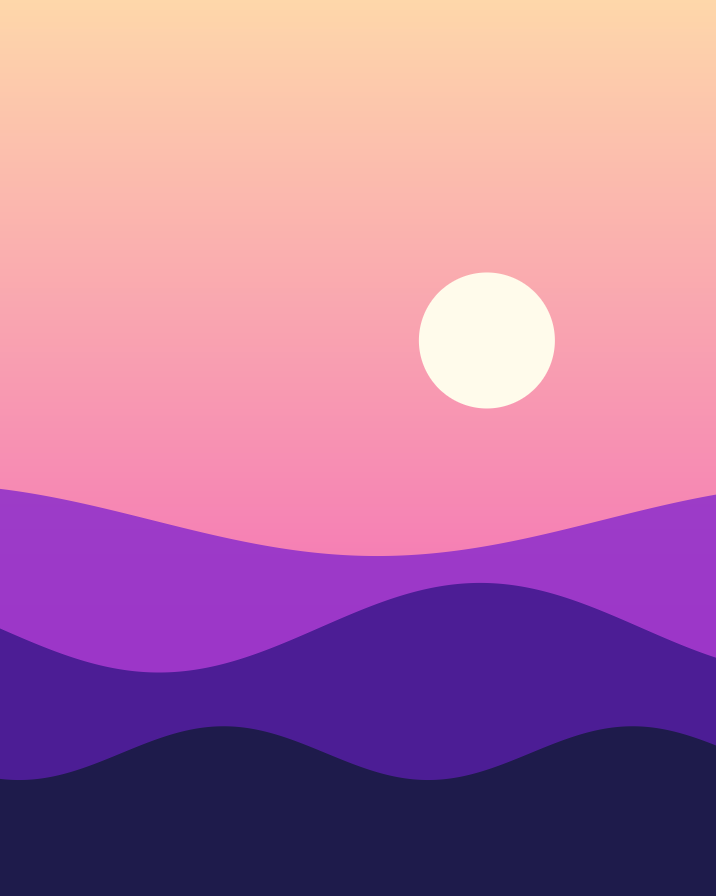
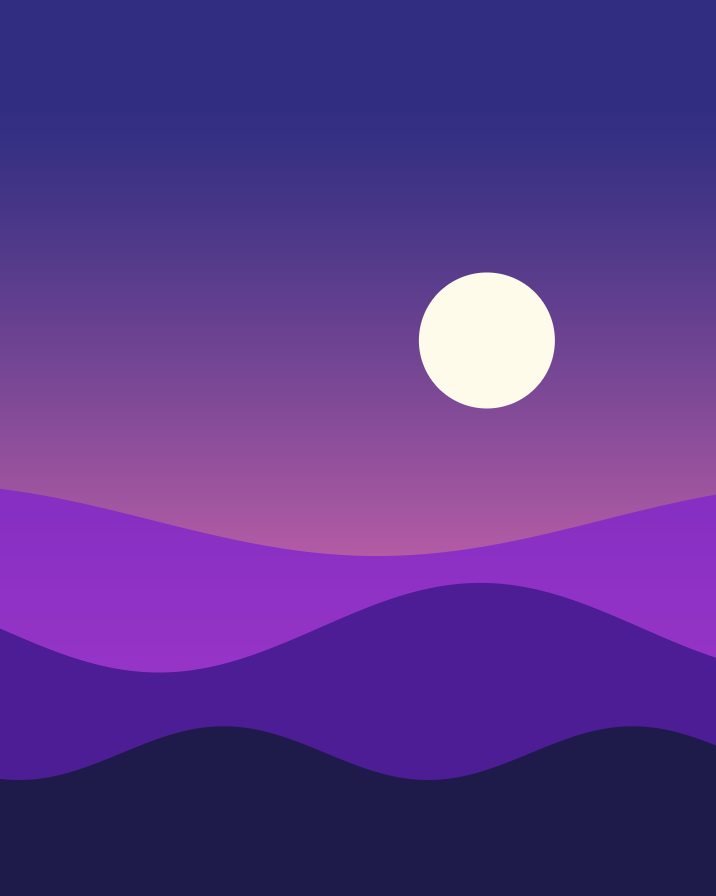
fix(templates): dark poster sky for white header text; drop empty date block and calendar thumbnail

diff --git a/templates/_tools/generate-art.ts b/templates/_tools/generate-art.ts
@@ -159,7 +159,7 @@ const storeStrip: Painter = (u, v, w, h, s) => {
   return [...c, 255];
 };
 
-/** Event poster: night gradient, light beams and a faint date block. */
+/** Event poster: night gradient with light beams. */
 const eventArt: Painter = (u, v, w, h, s) => {
   let c = mixRgb(NIGHT, MAGENTA, v ** 1.2);
   for (const [x, a] of [
@@ -169,20 +169,16 @@ const eventArt: Painter = (u, v, w, h, s) => {
     const beam = Math.abs(u - x - (v - 1) * 0.25) - 0.05 * (1 - v);
     c = over(c, [253, 224, 71], cover(beam * w) * a * (1 - v * 0.6));
   }
-  // The date block sits right of centre, clear of the logo and the header fields.
-  const bx = w - 58 * s;
-  const by = h * 0.3;
-  c = over(c, [255, 255, 255], cover(box(u * w, v * h, bx, by, 30 * s, 34 * s, 8 * s)) * 0.18);
-  c = over(c, MAGENTA, cover(box(u * w, v * h, bx, by - 22 * s, 30 * s, 12 * s, 8 * s)) * 0.45);
   return [...c, 255];
 };
 /** Classic event ticket: the poster colours as a quiet background. */
 const eventBackground: Painter = (u, v) => [...mixRgb(NIGHT, MAGENTA, v ** 1.4 * 0.8 + u * 0.1), 255];
-/** Classic event ticket thumbnail: the date block, rounded on transparent. */
+/** Classic event ticket thumbnail: the poster colours with a bright disc, rounded on transparent. */
 const eventThumb: Painter = (u, v, w, h, s) => {
   const r = cover(box(u * w, v * h, w / 2, h / 2, w / 2, h / 2, 14 * s));
-  const top = v < 0.36 ? MAGENTA : ([255, 255, 255] as Rgb);
-  return [...top, Math.round(r * 255)];
+  let c = mixRgb(NIGHT, MAGENTA, v ** 1.2);
+  c = over(c, [253, 224, 71], cover(Math.hypot(u * w - w / 2, v * h - h * 0.46) - w * 0.2));
+  return [...c, Math.round(r * 255)];
 };
 
 /** Boarding footer: a dashed route with a plane at the trailing end. */
@@ -198,9 +194,10 @@ const routeFooter: Painter = (u, v, w, h, s) => {
   return [255, 255, 255, Math.round(a * 230)];
 };
 
-/** Poster generic: a photo-like dusk landscape. */
+/** Poster generic: a dusk landscape; the top stays dark so white header text reads (4.5:1). */
 const posterArt: Painter = (u, v, w, h, s) => {
-  let c = mixRgb([254, 215, 170], [244, 114, 182], v * 1.4);
+  const sky = clamp((v - 0.12) / 0.7) ** 1.2;
+  let c = mixRgb([49, 46, 129], [244, 114, 182], sky);
   c = over(c, [255, 251, 235], cover(Math.hypot(u * w - w * 0.68, v * h - h * 0.38) - 34 * s));
   const hill = (k: number, a: number, f: number) => v - (k + a * Math.sin(u * f + k * 9));
   c = over(c, [126, 34, 206], clamp(hill(0.58, 0.04, 5) * h) * 0.75);
